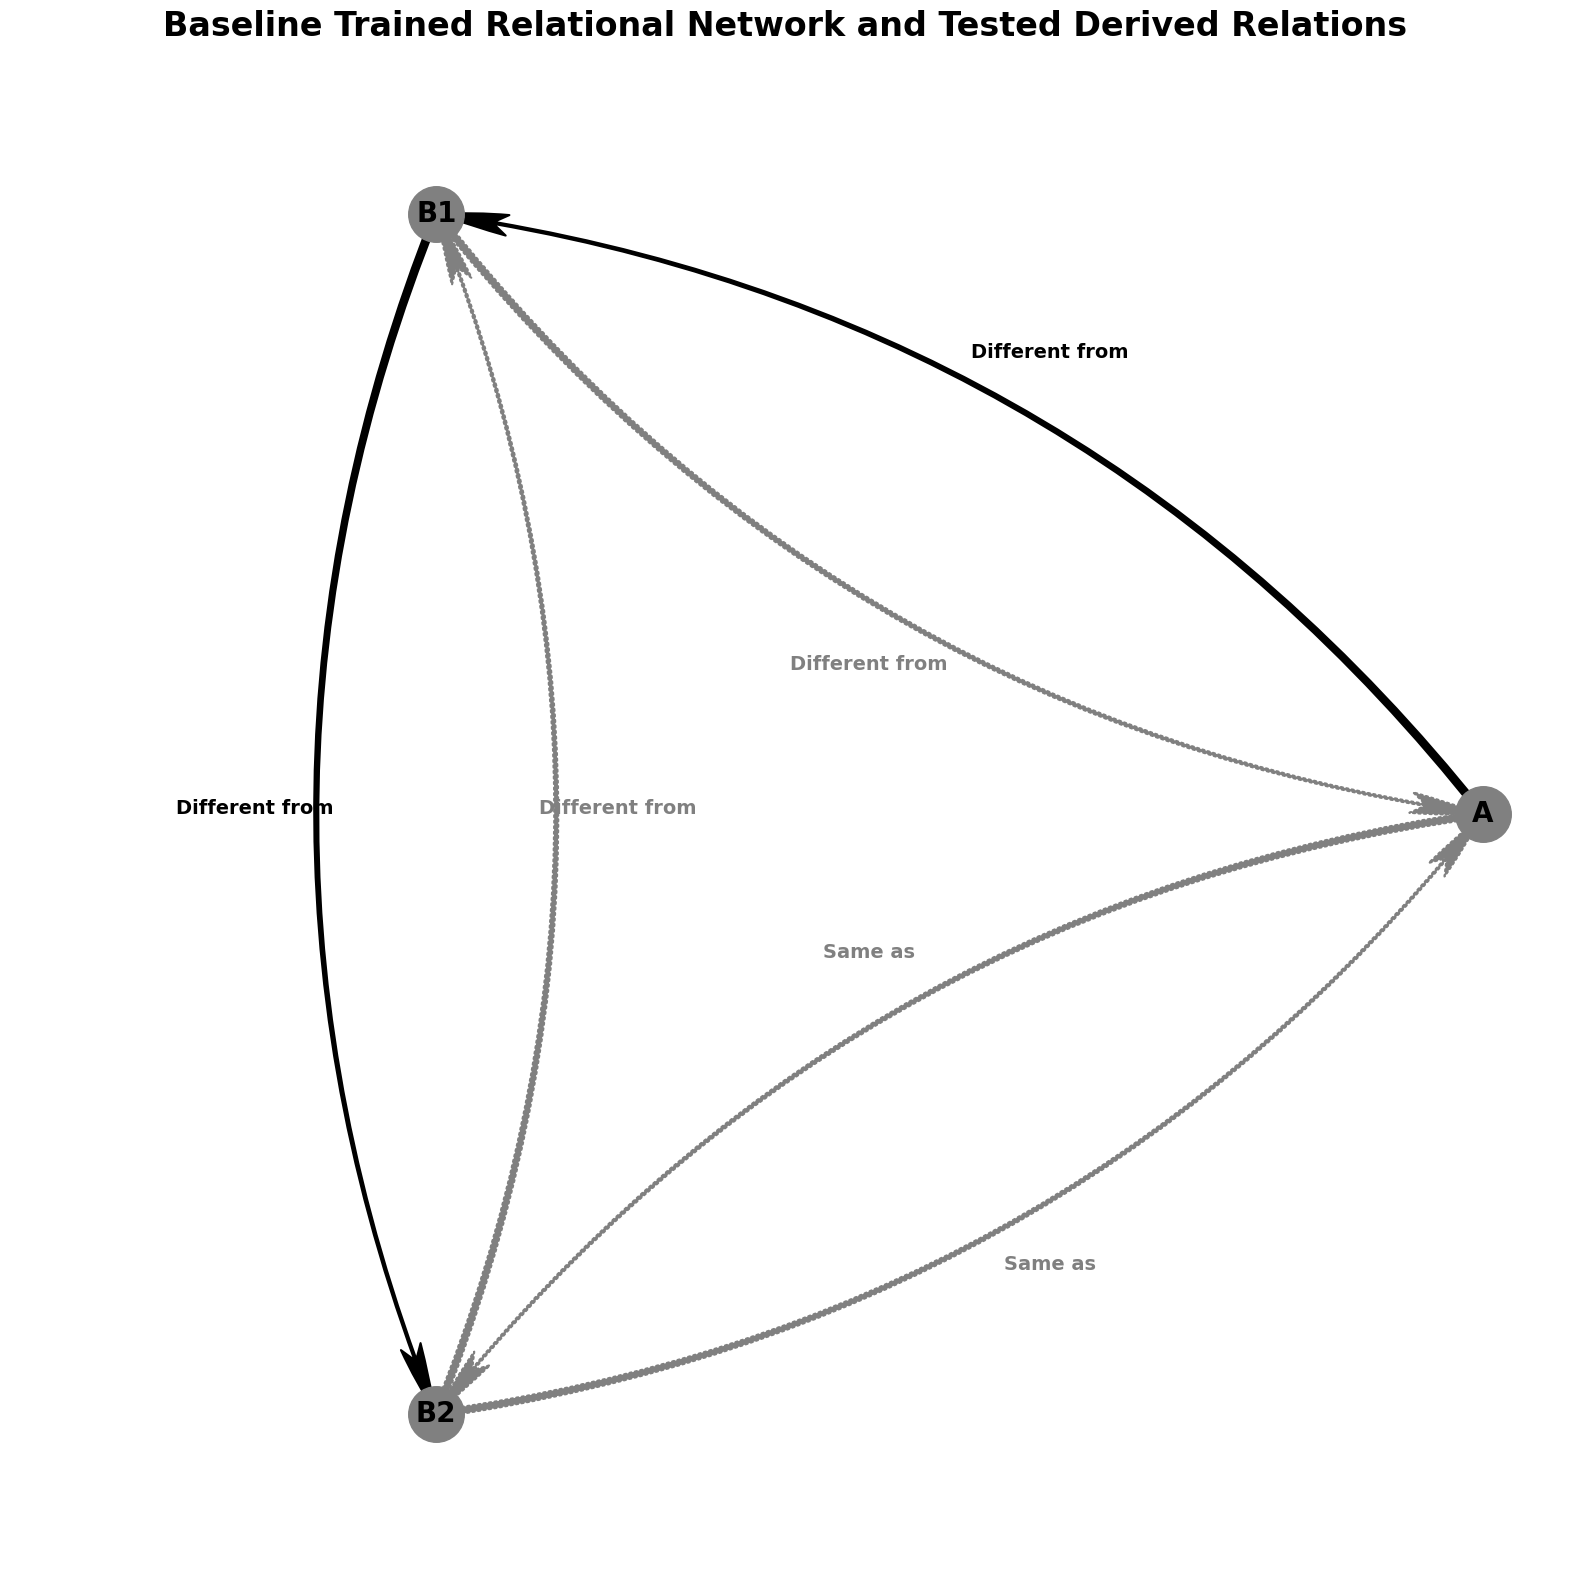
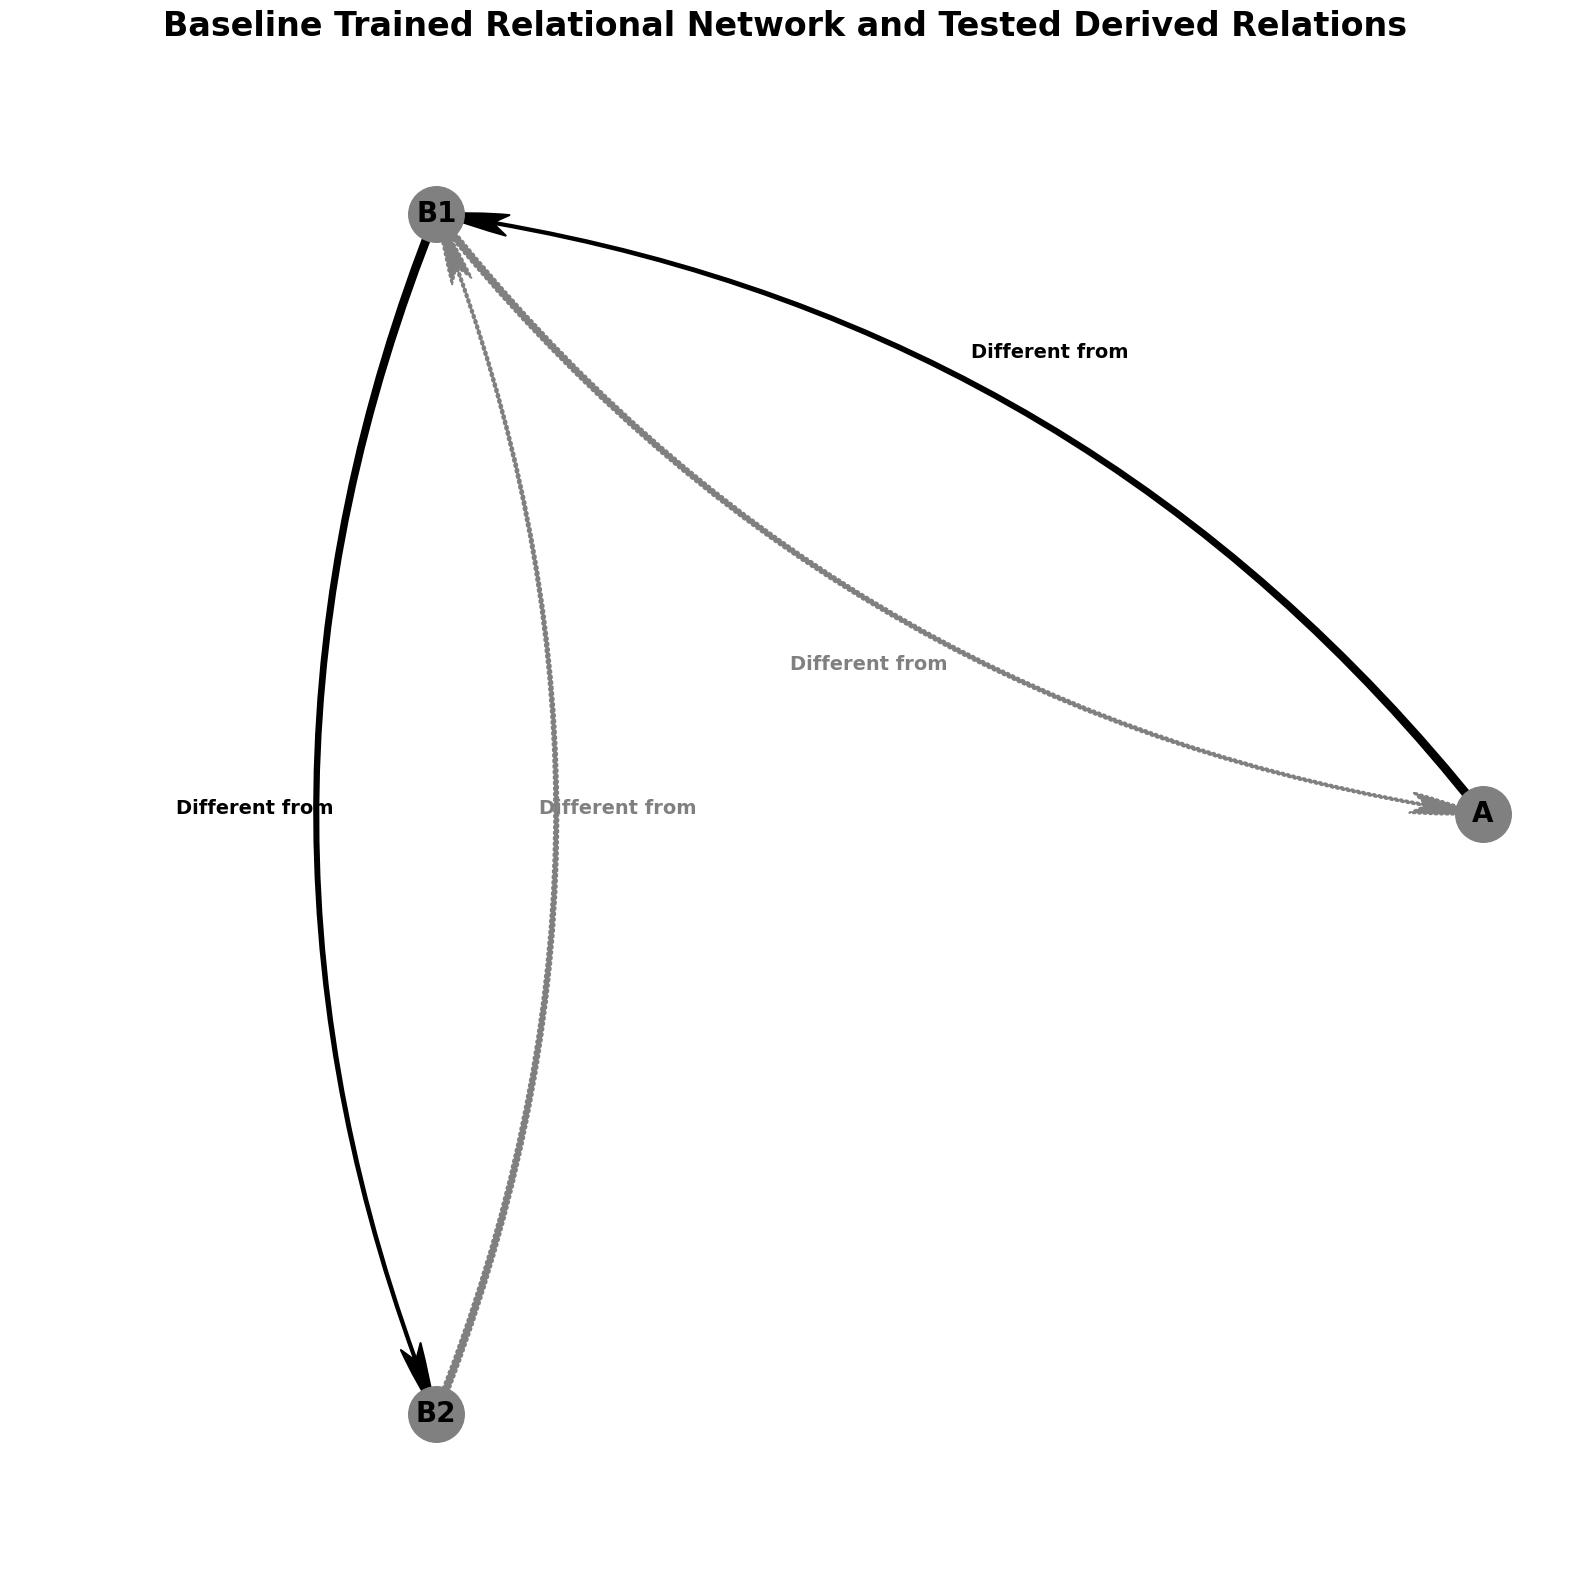
More plots and removed duplicate derivations from output dict

diff --git a/deriveRelationsFromBaseline.py b/deriveRelationsFromBaseline.py
@@ -92,7 +92,6 @@ def deriveRelationsFromBaseline(baseline, plot, printRels, n_stim, sLabs):
                         for sr2 in source2:
                             if sr1 == sr2:
                                 common = sr2    
-                    pdb.set_trace()
 
                     if common >= 0 and not (ii == i and jj == j): 
                         # Only combine rels with common element, 
@@ -135,7 +134,8 @@ def deriveRelationsFromBaseline(baseline, plot, printRels, n_stim, sLabs):
                                         derived[crelLab] = [(source1[1], source2[1])]
                                         relTab = np.vstack((relTab, np.zeros([1, n_stim, n_stim]))) # Add another relation to table
                                     else:
-                                        derived[crelLab].append((source1[1], source2[1]))
+                                        if not (source1[1], source2[1]) in derived[crelLab]:  # Filter for duplicates
+                                            derived[crelLab].append((source1[1], source2[1]))
                                     relTab[list.index(list(derived.keys()), crelLab), source1[1], source2[1]] = 1 # Update table
                                     if printRels:
                                         print('\n...And that {} is {} {}.\n\n'.format(
@@ -144,7 +144,8 @@ def deriveRelationsFromBaseline(baseline, plot, printRels, n_stim, sLabs):
                                         derived[mcrelLab] = [(source2[1], source1[1])]
                                         relTab = np.vstack((relTab, np.zeros([1, n_stim, n_stim]))) # Add another relation to table
                                     else:
-                                        derived[mcrelLab].append((source2[1], source1[1]))
+                                        if not (source2[1], source1[1]) in derived[mcrelLab]: # Account for duplicates
+                                            derived[mcrelLab].append((source2[1], source1[1]))
                                     relTab[list.index(list(derived.keys()), mcrelLab), source2[1], source1[1]] = 1 # Update table
                                 else:
                                     if printRels:
@@ -157,7 +158,8 @@ def deriveRelationsFromBaseline(baseline, plot, printRels, n_stim, sLabs):
                                         derived[crelLab] = [(source1[1], source2[0])]
                                         relTab = np.vstack((relTab, np.zeros([1, n_stim, n_stim]))) # Add another relation to table
                                     else:
-                                        derived[crelLab].append((source1[0], source2[1]))
+                                        if not (source1[0], source2[1]) in derived[crelLab]:  # Filter for duplicates
+                                            derived[crelLab].append((source1[0], source2[1]))
                                     relTab[list.index(list(derived.keys()), crelLab), source1[1], source2[0]] = 1 # Update table
                                     if printRels:
                                         print('\n...And that {} is {} {}.\n\n'.format(
@@ -166,7 +168,8 @@ def deriveRelationsFromBaseline(baseline, plot, printRels, n_stim, sLabs):
                                         derived[mcrelLab] = [(source2[0], source1[1])]
                                         relTab = np.vstack((relTab, np.zeros([1, n_stim, n_stim]))) # Add another relation to table
                                     else:
-                                        derived[mcrelLab].append((source2[0], source1[1]))
+                                        if not (source2[0], source1[1]) in derived[mcrelLab]: # Filter for duplicates
+                                            derived[mcrelLab].append((source2[0], source1[1]))
                                     relTab[list.index(list(derived.keys()), mcrelLab), source2[0], source1[1]] = 1 # Update table
                             else: 
                                 # --> Derive B-C relation
@@ -181,7 +184,8 @@ def deriveRelationsFromBaseline(baseline, plot, printRels, n_stim, sLabs):
                                         derived[crelLab] = [(source1[0], source2[1])]
                                         relTab = np.vstack((relTab, np.zeros([1, n_stim, n_stim]))) # Add another relation to table
                                     else:
-                                        derived[crelLab].append((source1[0], source2[1]))
+                                        if not (source1[0], source2[1]) in derived[crelLab]:  # Filter for duplicates
+                                            derived[crelLab].append((source1[0], source2[1]))
                                     relTab[list.index(list(derived.keys()), crelLab), source1[0], source2[1]] = 1 # Update table
                                     if printRels:
                                         print('And that {} is {} {}.\n\n'.format(
@@ -190,7 +194,8 @@ def deriveRelationsFromBaseline(baseline, plot, printRels, n_stim, sLabs):
                                         derived[mcrelLab] = [(source2[1], source1[0])]
                                         relTab = np.vstack((relTab, np.zeros([1, n_stim, n_stim]))) # Add another relation to table
                                     else:
-                                        derived[mcrelLab].append((source2[1], source1[0]))
+                                        if not (source2[1], source1[0]) in derived[mcrelLab]:  # Filter for duplicates
+                                            derived[mcrelLab].append((source2[1], source1[0]))
                                     relTab[list.index(list(derived.keys()), mcrelLab), source2[1], source1[0]] = 1 # Update table        
                                 else: # A - B and A - C -> B-C
                                     if printRels:
@@ -203,7 +208,8 @@ def deriveRelationsFromBaseline(baseline, plot, printRels, n_stim, sLabs):
                                         derived[crelLab] = [(source1[0], source2[0])]
                                         relTab = np.vstack((relTab, np.zeros([1, n_stim, n_stim]))) # Add another relation to table
                                     else:
-                                        derived[crelLab].append((source1[0], source2[0]))
+                                        if not (source1[0], source2[0]) in derived[crelLab]:  # Filter for duplicates
+                                            derived[crelLab].append((source1[0], source2[0]))
                                     relTab[list.index(list(derived.keys()), crelLab), source1[0], source2[0]] = 1 # Update table
                                     if printRels:
                                         print('\n...And that {} is {} {}\n\n'.format(
@@ -212,7 +218,8 @@ def deriveRelationsFromBaseline(baseline, plot, printRels, n_stim, sLabs):
                                         derived[mcrelLab] = [(source2[0], source1[0])]
                                         relTab = np.vstack((relTab, np.zeros([1, n_stim, n_stim]))) # Add another relation to table
                                     else:       
-                                        derived[mcrelLab].append((source2[0], source1[0]))
+                                        if not (source2[0], source1[0]) in derived[mcrelLab]:  # Filter for duplicates
+                                            derived[mcrelLab].append((source2[0], source1[0]))
                                     relTab[list.index(list(derived.keys()), mcrelLab), source2[0], source1[0]] = 1 # Update table
 
                         else:

diff --git a/plotRelationalNetworkGraph.py b/plotRelationalNetworkGraph.py
@@ -28,20 +28,22 @@ from derivationTablesFromSourceRelations import derivationTablesFromSourceRelati
 from deriveRelationsFromBaseline import deriveRelationsFromBaseline
 
 # plot parameteres
-radius = .2 # Determines curvature of lines between stimuli, can tweak to make plot more readable
+radius = .3 # Determines curvature of lines between stimuli, can tweak to make plot more readable
 # Between .15 and .3 seems to provide best results
 relColor = 'black'
 drelColor = 'grey'
-protocol = 'Linear' # For one-to-many or many-to-one, the 'one' is plotted in the middle
-title = 'Baseline Trained Relational Network and Tested Derived Relations'
+protocol = 'OneToMany' # For one-to-many or many-to-one, the 'one' is plotted in the middle
+title = 'Steele & Hayes (1991) Trained and Derived Relational Network'
 # arrowStyle = "simple, head_length=50, head_width=15, tail_width=5" # Simple arrow growing thinner
-arrowStyle = "fancy, head_length=50, head_width=15, tail_width=5" # Pointed arrow growing thinner
-label_offset = .75 # Play around with how close labels are plotted to lines
+relArrowStyle = "fancy, head_length=50, head_width=15, tail_width=5" # Pointed arrow growing thinner
+drelArrowStyle = "fancy, head_length=50, head_width=10, tail_width=3" # Pointed arrow growing thinner
+label_offset = .55 # Play around with how close labels are plotted to lines
 relLabelFontSize = 14
 sLabelFontSize = 20
 sDotSize = 40
 plotMutual = True
 plotCombinatorial = True
+figsize = (25,25)
 
 # Define default relations
 relations = dict({'Same as': 0,
@@ -55,9 +57,9 @@ relations = dict({'Same as': 0,
              'After': 8})
 mutual, combi = derivationTablesFromSourceRelations(relations)
 # Deinfe baseline network
-baseline = dict({'Different from': [(0,1), (1, 2)],
-                   # 'More than': [(0,2), (3, 2)], 
-              # 'Opposite to': [(0,3), (0,6)]
+baseline = dict({'Same as': [(0,1), (0,4)],
+                 'Different from': [(0,2), (0,5)], 
+               'Opposite to': [(0,3), (0,6)]
              })
 # derive relations (or do on the spot while plotting?)
 plot = False
@@ -103,7 +105,7 @@ vertices = polygon_coords(n_stim)
 
 
 # Create a Cartesian grid plot without showing the grid
-plt.figure(figsize=(20, 20))  # Set figure size
+plt.figure(figsize=figsize)  # Set figure size
 plt.plot([], [])  # Create an empty plot (optional for axes setup)
 plt.xlim(0,  n_stim*100)  # Set x-axis range
 plt.ylim(0,  n_stim*100)  # Set y-axis range
@@ -134,7 +136,7 @@ for rels in baseline.keys():
         # pdb.set_trace()
         baselineArrow = FancyArrowPatch((x_start, y_start), (x_end, y_end),
                                 connectionstyle="arc3,rad={}".format(radius),  # Controls the curvature
-                                arrowstyle= arrowStyle, color=relColor, linewidth=1.5)
+                                arrowstyle= relArrowStyle, color=relColor, linewidth=1.5)
         plt.gca().add_patch(baselineArrow)
         # Label the curve, position depending on symmetry of relation
         mid_x, mid_y = (x_start + x_end)/ 2, (y_start + y_end)/ 2# midpoint for positioning
@@ -166,7 +168,7 @@ for drels in derived.keys():
                 # Plot a curved line using FancyArrowPatch 
                 derivedArrow = FancyArrowPatch((x_start, y_start), (x_end, y_end),
                                         connectionstyle="arc3,rad={}".format(radius),  # Controls the curvature
-                                        arrowstyle=arrowStyle, color=drelColor, 
+                                        arrowstyle=drelArrowStyle, color=drelColor, 
                                         linestyle = ':', linewidth=1.5)
                 plt.gca().add_patch(derivedArrow)
                 # Label the curve, position depending on symmetry of relation
